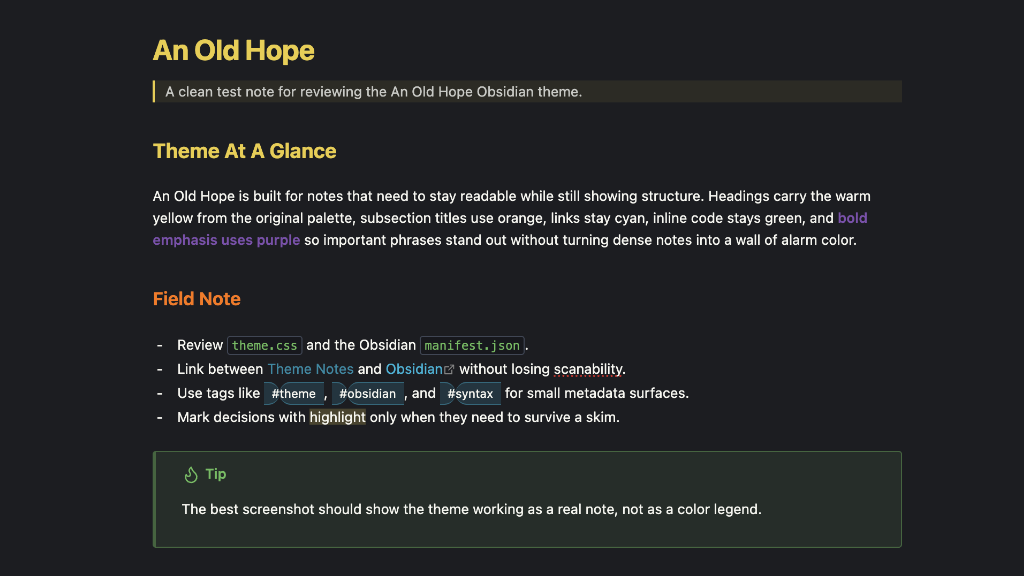
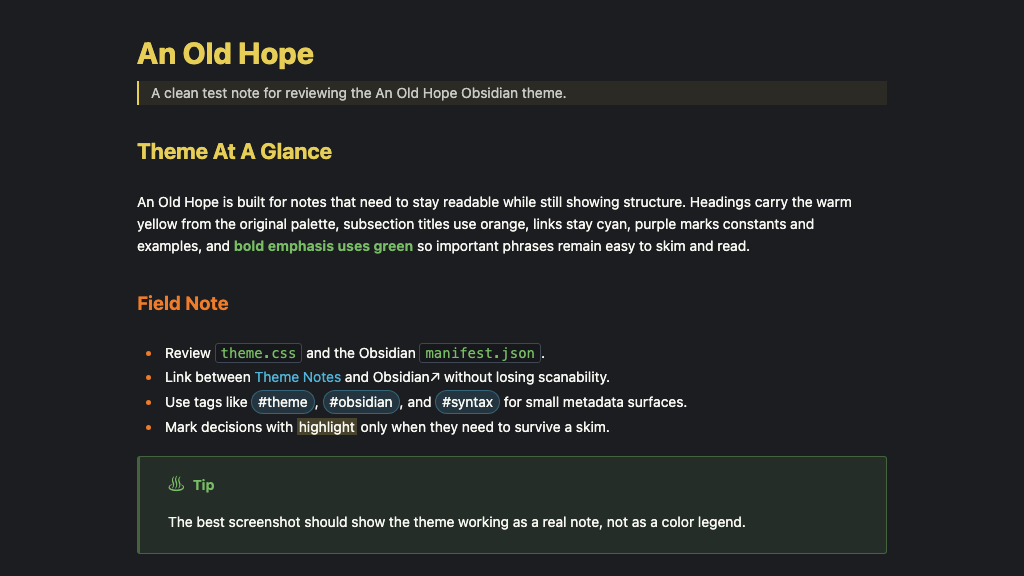
1.0.1

diff --git a/theme.css b/theme.css
@@ -50,9 +50,10 @@ body {
   color-scheme: dark;
 
   /* The original purple is a syntax-palette reference, but is too dark for text. */
+  --old-hope-green: #78bc65;
   --old-hope-purple-readable: #a67bd5;
   --old-hope-purple-readable-rgb: 166, 123, 213;
-  --bold-color: var(--old-hope-purple-readable);
+  --bold-color: var(--old-hope-green);
   --italic-color: var(--text-normal);
 
   --color-base-00: #1c1d21;
@@ -226,7 +227,7 @@ body {
   --old-hope-purple: #67449a;
   --old-hope-purple-readable: #67449a;
   --old-hope-purple-readable-rgb: 103, 68, 154;
-  --bold-color: var(--old-hope-purple-readable);
+  --bold-color: var(--old-hope-green);
   --italic-color: var(--text-normal);
   --old-hope-find: #e7ce57;
 

diff --git a/sample.md b/sample.md
@@ -4,7 +4,7 @@
 
 ## Theme At A Glance
 
-An Old Hope is built for notes that need to stay readable while still showing structure. Headings carry the warm yellow from the original palette, subsection titles use orange, links stay cyan, inline code stays green, and **bold emphasis uses an accessible purple** so important phrases remain easy to skim and read.
+An Old Hope is built for notes that need to stay readable while still showing structure. Headings carry the warm yellow from the original palette, subsection titles use orange, links stay cyan, purple marks constants and examples, and **bold emphasis uses green** so important phrases remain easy to skim and read.
 
 ### Field Note
 
@@ -38,7 +38,7 @@ An Old Hope is built for notes that need to stay readable while still showing st
 | --- | --- | --- |
 | Heading | Yellow | Primary document structure |
 | Link | Cyan | Internal and external navigation |
-| Bold | Accessible purple | Skimmable emphasis |
+| Bold | Green | Skimmable emphasis |
 | Inline code | Green | `const theme = "An Old Hope"` |
 | Warning | Red | Error and danger callouts |
 
@@ -57,7 +57,7 @@ An Old Hope is built for notes that need to stay readable while still showing st
 > Danger callouts use red for real problems.
 
 > [!example]
-> Examples use accessible purple to match constants and bold emphasis.
+> Examples use accessible purple to match constants without competing with green emphasis.
 
 ## Code
 

diff --git a/README.md b/README.md
@@ -6,7 +6,7 @@ A dark Obsidian theme inspired by a galaxy far, far away, porting the An Old Hop
 
 ![An Old Hope Obsidian theme preview](screenshot.png)
 
-An Old Hope keeps the original editor theme's backbone: deep charcoal backgrounds, warm off-white text, red keywords/actions, cyan links and strings, yellow headings/functions, green Markdown/code accents, orange accents, and purple constants. Bold prose keeps its distinctive purple skim signal, using a lighter accessible purple in dark mode and the original deeper purple in light mode.
+An Old Hope keeps the original editor theme's backbone: deep charcoal backgrounds, warm off-white text, red keywords/actions, cyan links and strings, yellow headings/functions, green Markdown/code accents and bold emphasis, orange accents, and purple constants. Green gives bold prose a strong, readable skim signal without competing with headings or making ordinary emphasis look like an alert.
 
 ## Install
 
